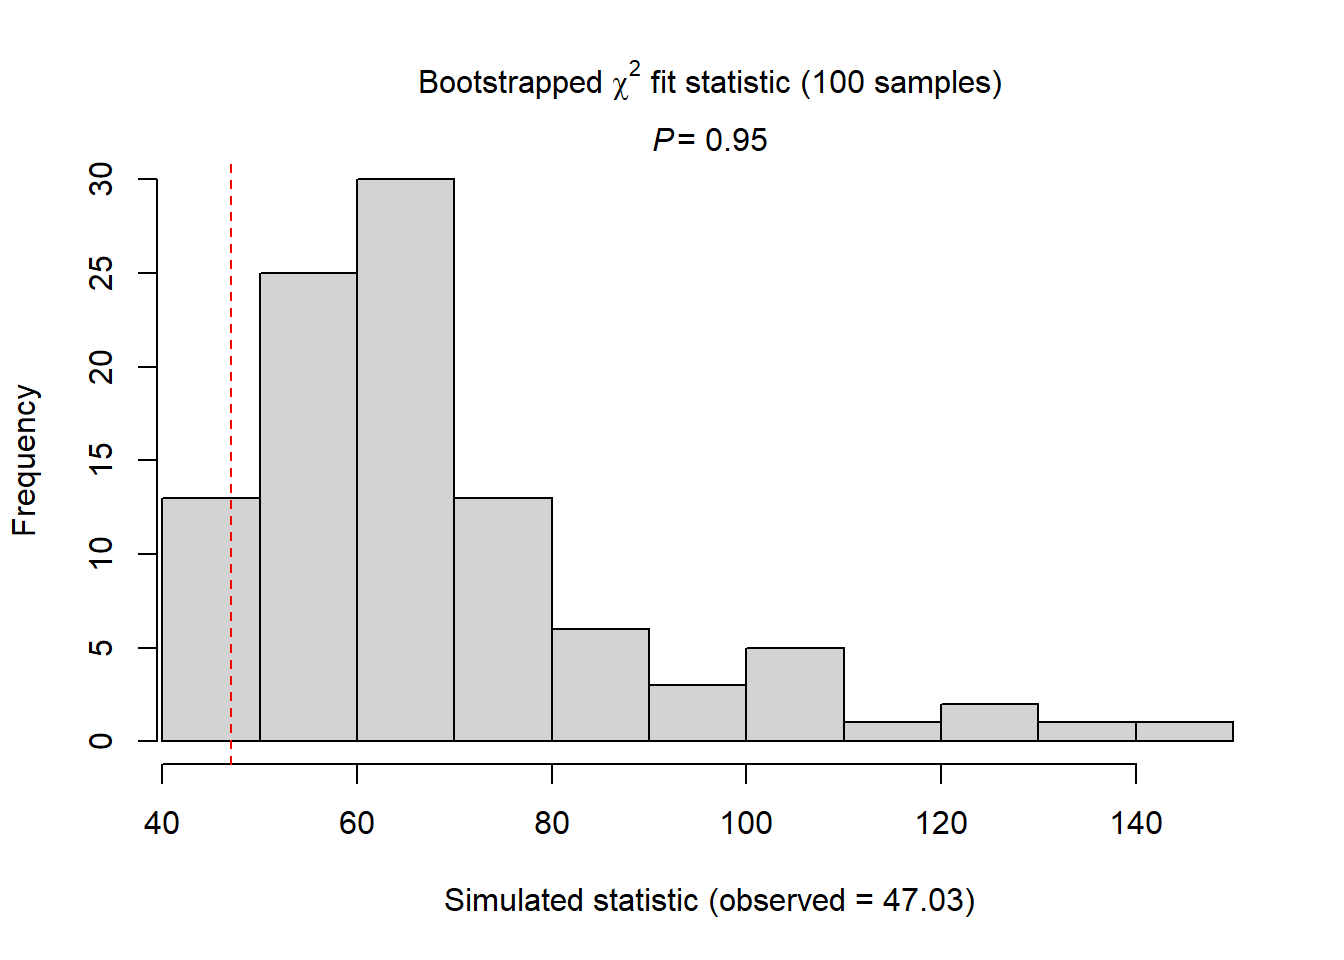
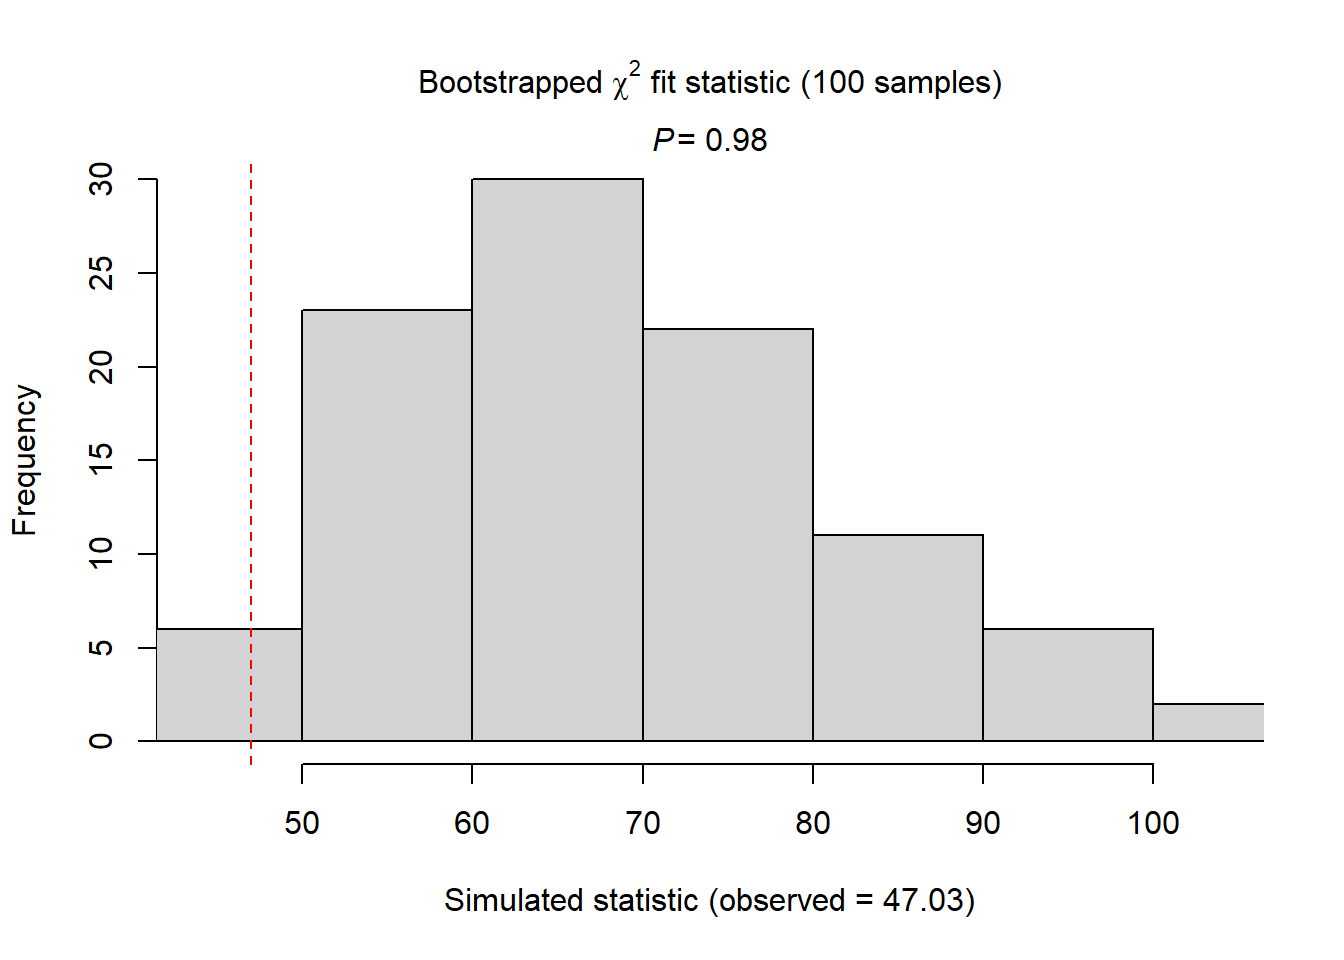
Tres

diff --git a/docs/Clase7.html b/docs/Clase7.html
@@ -429,15 +429,15 @@ parboot(object = ModelAbun3, statistic = fitstats, nsim = 100, report = 1)
 
 Parametric Bootstrap Statistics:
                t0 mean(t0 - t_B) StdDev(t0 - t_B) Pr(t_B &gt; t0)
-SSE          30.5        -14.887            13.88        0.842
-Chisq        47.0        -23.834            20.17        0.891
-freemanTukey 28.2         -0.293             3.78        0.554
+SSE          30.5        -13.129            13.98        0.842
+Chisq        47.0        -19.898            16.15        0.941
+freemanTukey 28.2          0.548             3.98        0.416
 
 t_B quantiles:
              0% 2.5% 25% 50% 75% 97.5% 100%
-SSE          20   24  35  45  52    78   90
-Chisq        32   43  58  70  80   119  161
-freemanTukey 20   21  26  29  31    35   37
+SSE          17   23  34  41  52    78   81
+Chisq        39   46  54  64  76   104  137
+freemanTukey 18   20  25  27  30    36   39
 
 t0 = Original statistic computed from data
 t_B = Vector of bootstrap samples</code></pre>
@@ -475,99 +475,6 @@ t_B = Vector of bootstrap samples</code></pre>
 </div>
 </div>
 </div>
-</div>
-</div>
-<div class="cell">
-<div class="sourceCode cell-code" id="cb49"><pre class="sourceCode r code-with-copy"><code class="sourceCode r"><span id="cb49-1"><a href="#cb49-1" aria-hidden="true" tabindex="-1"></a><span class="fu">library</span>(unmarked)</span>
-<span id="cb49-2"><a href="#cb49-2" aria-hidden="true" tabindex="-1"></a></span>
-<span id="cb49-3"><a href="#cb49-3" aria-hidden="true" tabindex="-1"></a><span class="fu">data</span>(mallard)</span>
-<span id="cb49-4"><a href="#cb49-4" aria-hidden="true" tabindex="-1"></a></span>
-<span id="cb49-5"><a href="#cb49-5" aria-hidden="true" tabindex="-1"></a>mallardUMF <span class="ot">&lt;-</span> <span class="fu">unmarkedFramePCount</span>(mallard.y, <span class="at">siteCovs =</span> mallard.site,</span>
-<span id="cb49-6"><a href="#cb49-6" aria-hidden="true" tabindex="-1"></a><span class="at">obsCovs =</span> mallard.obs)</span>
-<span id="cb49-7"><a href="#cb49-7" aria-hidden="true" tabindex="-1"></a></span>
-<span id="cb49-8"><a href="#cb49-8" aria-hidden="true" tabindex="-1"></a>(fm.mallard <span class="ot">&lt;-</span> <span class="fu">pcount</span>(<span class="sc">~</span> ivel<span class="sc">+</span> date <span class="sc">+</span> <span class="fu">I</span>(date<span class="sc">^</span><span class="dv">2</span>) <span class="sc">~</span> length <span class="sc">+</span> elev <span class="sc">+</span> forest, mallardUMF, <span class="at">K=</span><span class="dv">30</span>))</span></code><button title="Copy to Clipboard" class="code-copy-button"><i class="bi"></i></button></pre></div>
-<div class="cell-output cell-output-stderr">
-<pre><code>Warning: 4 sites have been discarded because of missing data.</code></pre>
-</div>
-<div class="cell-output cell-output-stdout">
-<pre><code>
-Call:
-pcount(formula = ~ivel + date + I(date^2) ~ length + elev + forest, 
-    data = mallardUMF, K = 30)
-
-Abundance:
-            Estimate    SE     z  P(&gt;|z|)
-(Intercept)   -1.989 0.245 -8.14 4.10e-16
-length        -0.413 0.134 -3.07 2.14e-03
-elev          -1.507 0.247 -6.11 1.01e-09
-forest        -0.707 0.162 -4.37 1.22e-05
-
-Detection:
-            Estimate     SE      z P(&gt;|z|)
-(Intercept)  0.25516 0.2240  1.139  0.2546
-ivel         0.29778 0.1773  1.680  0.0930
-date        -0.36894 0.1521 -2.425  0.0153
-I(date^2)    0.00908 0.0886  0.103  0.9183
-
-AIC: 511.2066 </code></pre>
-</div>
-<div class="sourceCode cell-code" id="cb52"><pre class="sourceCode r code-with-copy"><code class="sourceCode r"><span id="cb52-1"><a href="#cb52-1" aria-hidden="true" tabindex="-1"></a>(fm.mallard.nb <span class="ot">&lt;-</span> <span class="fu">pcount</span>(<span class="sc">~</span> date <span class="sc">+</span> <span class="fu">I</span>(date<span class="sc">^</span><span class="dv">2</span>) <span class="sc">~</span> length <span class="sc">+</span> elev, <span class="at">mixture =</span> <span class="st">"NB"</span>, mallardUMF, <span class="at">K=</span><span class="dv">30</span>))</span></code><button title="Copy to Clipboard" class="code-copy-button"><i class="bi"></i></button></pre></div>
-<div class="cell-output cell-output-stderr">
-<pre><code>Warning: 4 sites have been discarded because of missing data.</code></pre>
-</div>
-<div class="cell-output cell-output-stdout">
-<pre><code>
-Call:
-pcount(formula = ~date + I(date^2) ~ length + elev, data = mallardUMF, 
-    K = 30, mixture = "NB")
-
-Abundance:
-            Estimate    SE     z  P(&gt;|z|)
-(Intercept)   -1.760 0.304 -5.78 7.31e-09
-length        -0.383 0.208 -1.84 6.59e-02
-elev          -1.637 0.322 -5.08 3.72e-07
-
-Detection:
-            Estimate     SE       z P(&gt;|z|)
-(Intercept) -0.09070 0.2879 -0.3150  0.7528
-date        -0.29341 0.1413 -2.0770  0.0378
-I(date^2)   -0.00561 0.0756 -0.0742  0.9408
-
-Dispersion:
- Estimate    SE     z P(&gt;|z|)
-   -0.983 0.328 -2.99 0.00277
-
-AIC: 484.6365 </code></pre>
-</div>
-</div>
-<div class="cell">
-<div class="sourceCode cell-code" id="cb55"><pre class="sourceCode r code-with-copy"><code class="sourceCode r"><span id="cb55-1"><a href="#cb55-1" aria-hidden="true" tabindex="-1"></a><span class="fu">summary</span>(fm.mallard)</span></code><button title="Copy to Clipboard" class="code-copy-button"><i class="bi"></i></button></pre></div>
-<div class="cell-output cell-output-stdout">
-<pre><code>
-Call:
-pcount(formula = ~ivel + date + I(date^2) ~ length + elev + forest, 
-    data = mallardUMF, K = 30)
-
-Abundance (log-scale):
-            Estimate    SE     z  P(&gt;|z|)
-(Intercept)   -1.989 0.245 -8.14 4.10e-16
-length        -0.413 0.134 -3.07 2.14e-03
-elev          -1.507 0.247 -6.11 1.01e-09
-forest        -0.707 0.162 -4.37 1.22e-05
-
-Detection (logit-scale):
-            Estimate     SE      z P(&gt;|z|)
-(Intercept)  0.25516 0.2240  1.139  0.2546
-ivel         0.29778 0.1773  1.680  0.0930
-date        -0.36894 0.1521 -2.425  0.0153
-I(date^2)    0.00908 0.0886  0.103  0.9183
-
-AIC: 511.2066 
-Number of sites: 235
-ID of sites removed due to NA: 12 69 118 146
-optim convergence code: 0
-optim iterations: 44 
-Bootstrap iterations: 0 </code></pre>
 </div>
 </div>
 <div class="quarto-figure quarto-figure-center">
